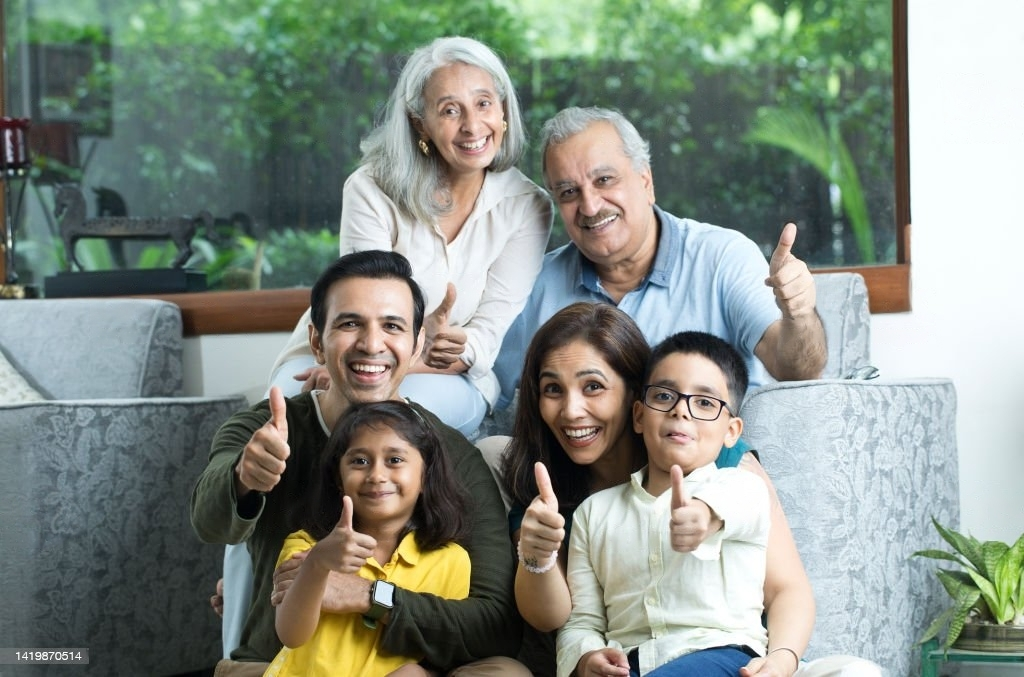
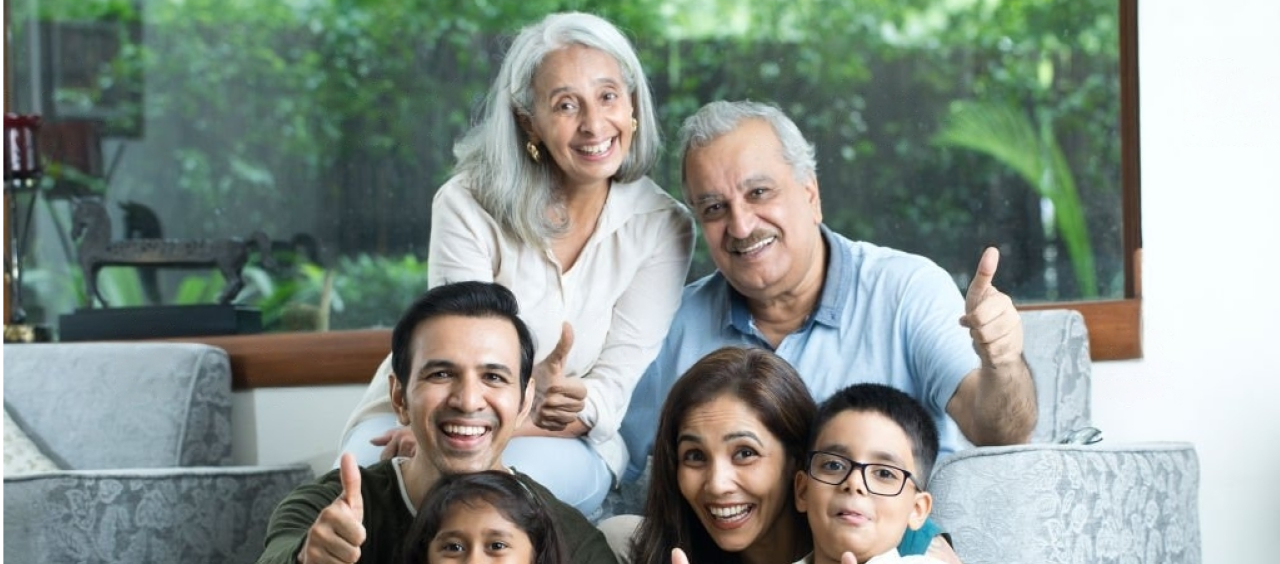
make pictures good

diff --git a/pages/auto-insurance.jsx b/pages/auto-insurance.jsx
@@ -1,40 +1,10 @@
-import { useState, useEffect } from 'react';
-
 import { CoverageDetail } from '@/components/CoverageDetail';
-import styles from '@/styles/navbar.module.css';
-import MainNav from '@/components/Navbar/MainNav';
-import TopNav from '@/components/Navbar/TopNav';
-import { useRouter } from 'next/router';
 import { HeroSection } from '@/components/HeroSection/HeroSection';
 
 const AutoInsurance = () => {
-  const router = useRouter();
 
-  const [sticky, setSticky] = useState(false);
-
-  useEffect(() => {
-    const handleScroll = () => {
-      if (window.scrollY >= 100) {
-        setSticky(true);
-      } else {
-        setSticky(false);
-      }
-    };
-
-    // Add the scroll event listener
-    window.addEventListener('scroll', handleScroll);
-
-    // Clean up the event listener when the component unmounts or route changes
-    return () => {
-      window.removeEventListener('scroll', handleScroll);
-    };
-  }, [router.asPath]);
   return (
     <>
-      {/* <div className={`${sticky ? styles.sticky : styles.notSticky} `}>
-        <TopNav />
-        <MainNav />
-      </div>{' '} */}
       <HeroSection
         img='/images/new/auto-insurance.jpg'
         heading={'Auto Insurance (Coming Soon)'}

diff --git a/pages/travel-insurance.jsx b/pages/travel-insurance.jsx
@@ -10,7 +10,7 @@ const SuperVisa = () => {
             traveling. Additionally, it provides protection against financial
             losses stemming from trip cancellations or interruptions.`}
         color={'#9AB88CCC'}
-        img={'/images/new/travel-insurance.jpg'}
+        img={'/images/new/travel-insurance.jpg'} 
       />
 
       <div className='relative top-[-165px]'>

diff --git a/pages/international-student-insurance.jsx b/pages/international-student-insurance.jsx
@@ -10,7 +10,7 @@ const StudentInsurance = () => {
             financially secure. It's a lasting gift that guarantees protection
             and support, no matter what life brings.`}
         img={'/images/new/international-student-insurance.jpg'}
-        color={'#A94443CC'}
+        color={'#A94443CC'} position='top'
       />
 
       <div className='relative top-[-165px]'>

diff --git a/pages/life-insurance/critical-illness-insurance.jsx b/pages/life-insurance/critical-illness-insurance.jsx
@@ -12,7 +12,7 @@ const CriticalillnessPage = () => {
             expenses, these policies provide monetary payouts to assist in
             covering these excess costs when conventional health insurance might
             not be sufficient.`}
-        color={'#FF9801CC'}
+        color={'#FF9801CC'} position='top'
       />
 
       <div className='relative top-[-165px]'>

diff --git a/pages/life-insurance/disability-insurance.jsx b/pages/life-insurance/disability-insurance.jsx
@@ -11,7 +11,7 @@ const DisabilityPage = () => {
             of your lost income and covering medical expenses in the event of an
             accident resulting in disability.`}
         img={'/images/new/disability-insurance.jpeg'}
-        color={'#62B1BCCC'}
+        color={'#62B1BCCC'} position='top'
       />
 
       <div className='relative top-[-165px]'>

diff --git a/pages/life-insurance/universal-life-insurance.jsx b/pages/life-insurance/universal-life-insurance.jsx
@@ -13,8 +13,9 @@ const UniversalLifeInsurance = () => {
             taxation throughout their lifetime.`}
         img={'/images/new/universal-life-insurance.jpg'}
         color={'#9AB88CCC'}
+        position='top'
       />
-     
+
       <div className='relative top-[-165px]'>
         <CoverageDetail />
       </div>

diff --git a/pages/super-visa-insurance.jsx b/pages/super-visa-insurance.jsx
@@ -12,6 +12,7 @@ const SuperVisa = () => {
             during their visit.`}
         img={'/images/new/supervisa-insurance.jpeg'}
         color={'#62B1BCCC'}
+        position='bottom'
       />
 
       <div className='relative top-[-165px]'>
